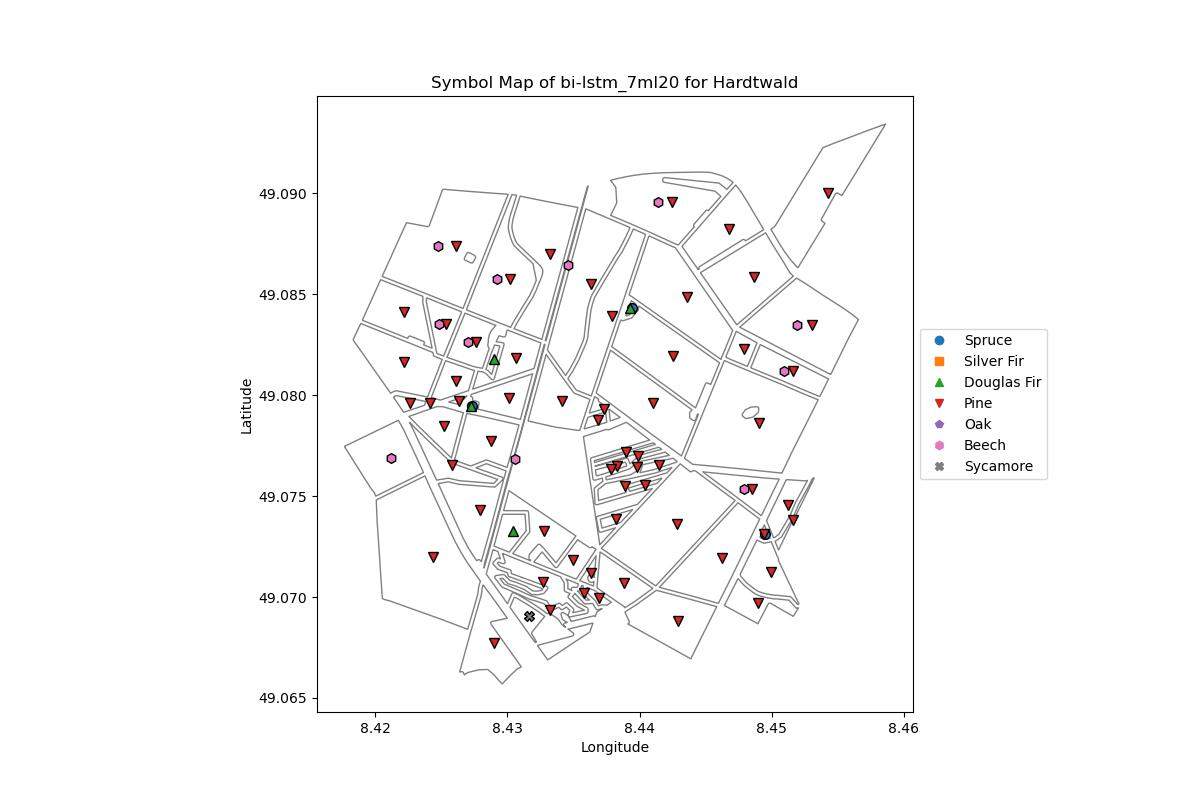
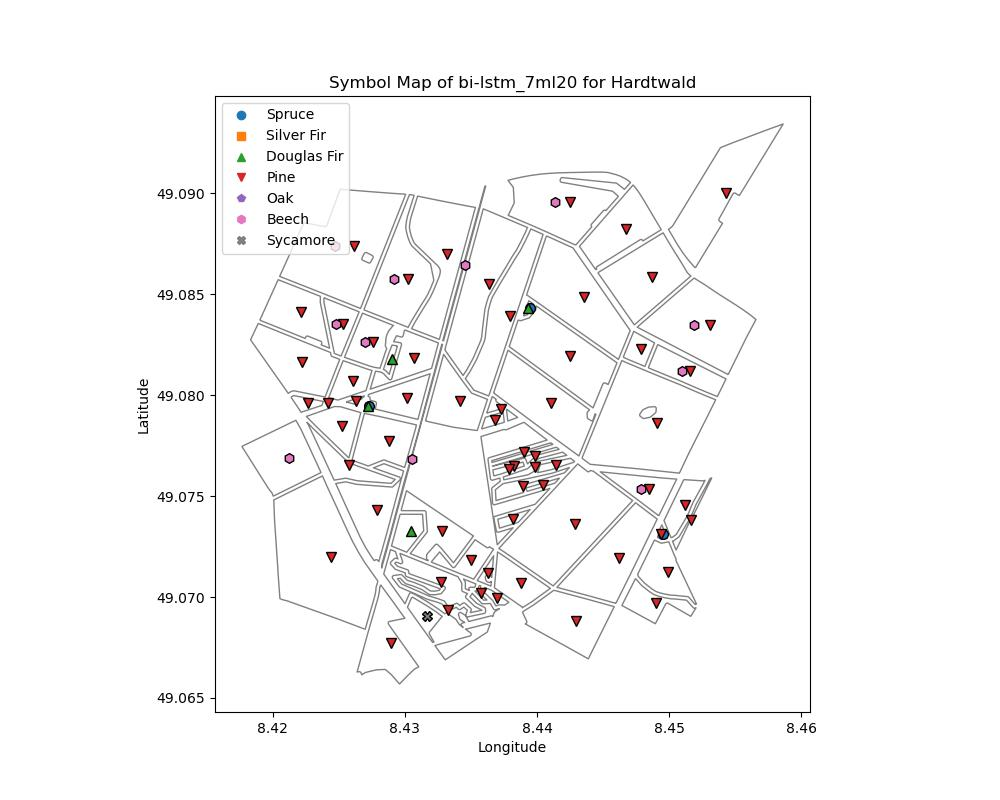
resize all maps

diff --git a/utils/plot.py b/utils/plot.py
@@ -152,7 +152,7 @@ def draw_multi_confusion_matirx(ref:pd.DataFrame, pred:pd.DataFrame, model:str) 
 def draw_color_map(gdf:gpd.GeoDataFrame, area:str, model:str) -> None:
     """Draw validation map to visulise classification result"""
     # Create a figure and axis
-    fig, ax = plt.subplots(figsize=(12, 8))
+    fig, ax = plt.subplots(figsize=(10, 8))
     # map class and color
     color_map = {
         'Spruce': '#1f77b4', 
@@ -171,7 +171,7 @@ def draw_color_map(gdf:gpd.GeoDataFrame, area:str, model:str) -> None:
     # set legend
     legend_labels = list(color_map.keys())
     handles = [plt.Line2D([], [], color=color_map[label], marker='o', linestyle='', label=label) for label in legend_labels]
-    ax.legend(handles=handles, labels=legend_labels, loc='center left', bbox_to_anchor=(1.0, 0.5))
+    ax.legend(handles=handles, labels=legend_labels, loc='upper left')
     # Set the title and axis labels
     title = f'Color Map of {model} for {area}'
     ax.set_title(title)
@@ -183,7 +183,7 @@ def draw_color_map(gdf:gpd.GeoDataFrame, area:str, model:str) -> None:
 
 def draw_symbol_map(gdf:gpd.GeoDataFrame, area:str, model:str) -> None:
     """Draw validation map to visulise multi-label result"""
-    fig, ax = plt.subplots(figsize=(12, 8))
+    fig, ax = plt.subplots(figsize=(10, 8))
     # tree species
     labels = ['Spruce', 'Silver Fir', 'Douglas Fir', 'Pine', 'Oak', 'Beech', 'Sycamore']
     # marker shape and color
@@ -211,7 +211,7 @@ def draw_symbol_map(gdf:gpd.GeoDataFrame, area:str, model:str) -> None:
     gdf.apply(lambda row: _plot_symbol(row, ax, labels, shape_map, color_map), axis=1)
     # set legend
     handles = [plt.Line2D([], [], color=color_map[label], marker=shape_map[label], linestyle='', label=label) for label in labels]
-    ax.legend(handles=handles, labels=labels, loc='center left', bbox_to_anchor=(1.0, 0.5))
+    ax.legend(handles=handles, labels=labels, loc='upper left')
     # Set the title and axis labels
     title = f'Symbol Map of {model} for {area}'
     ax.set_title(title)
